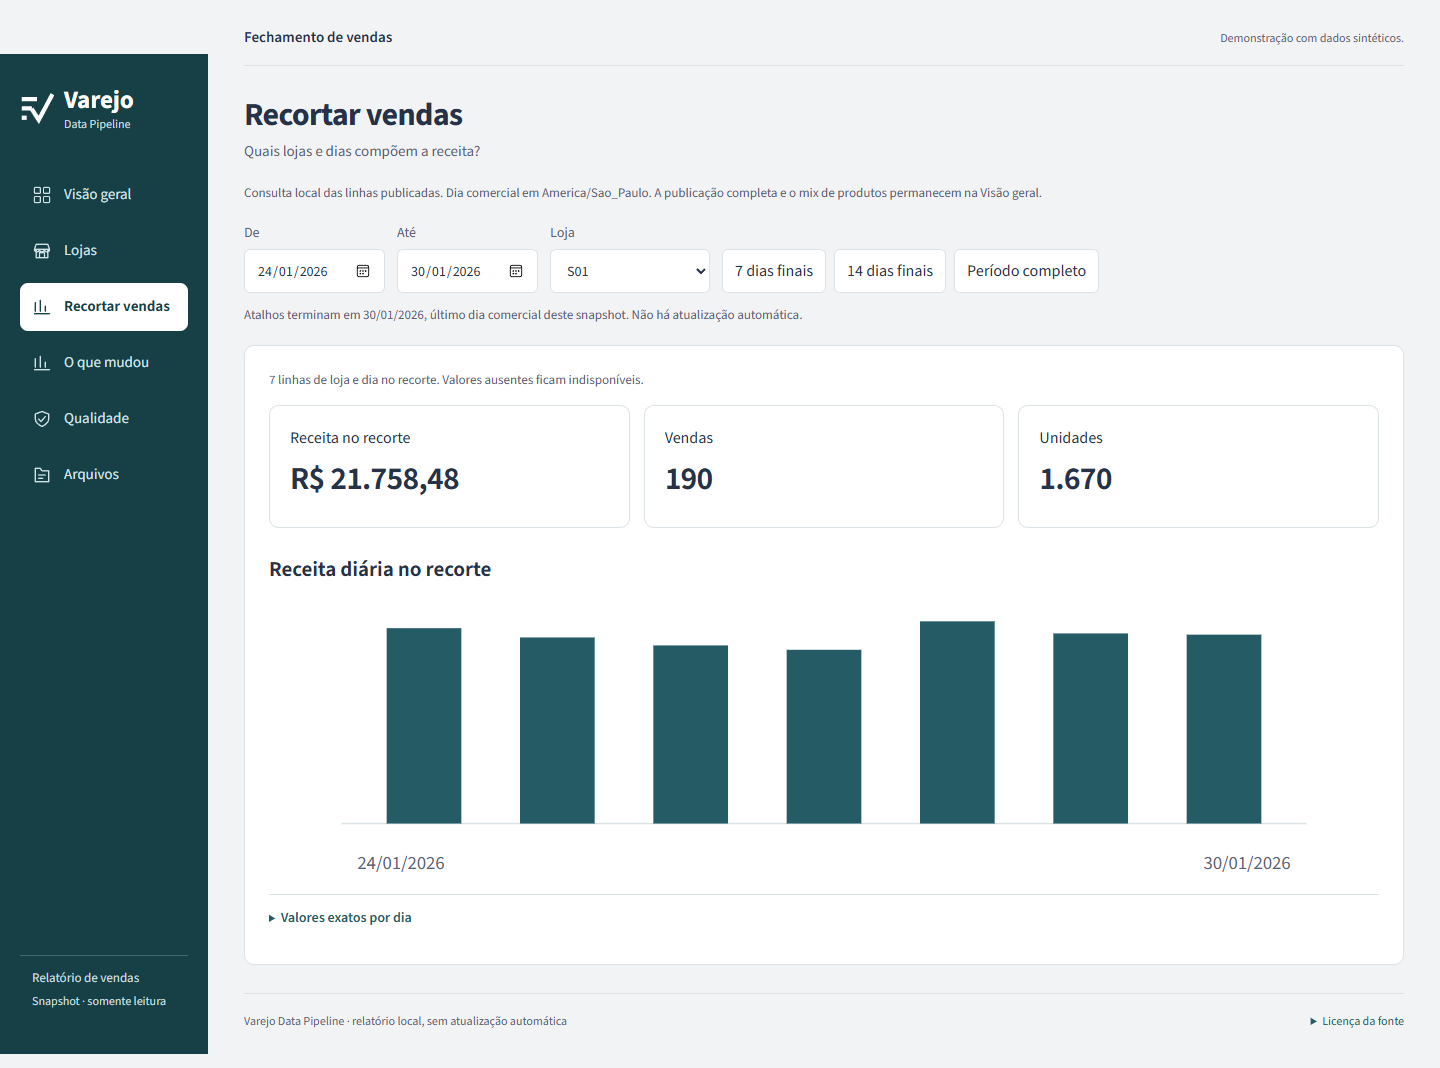
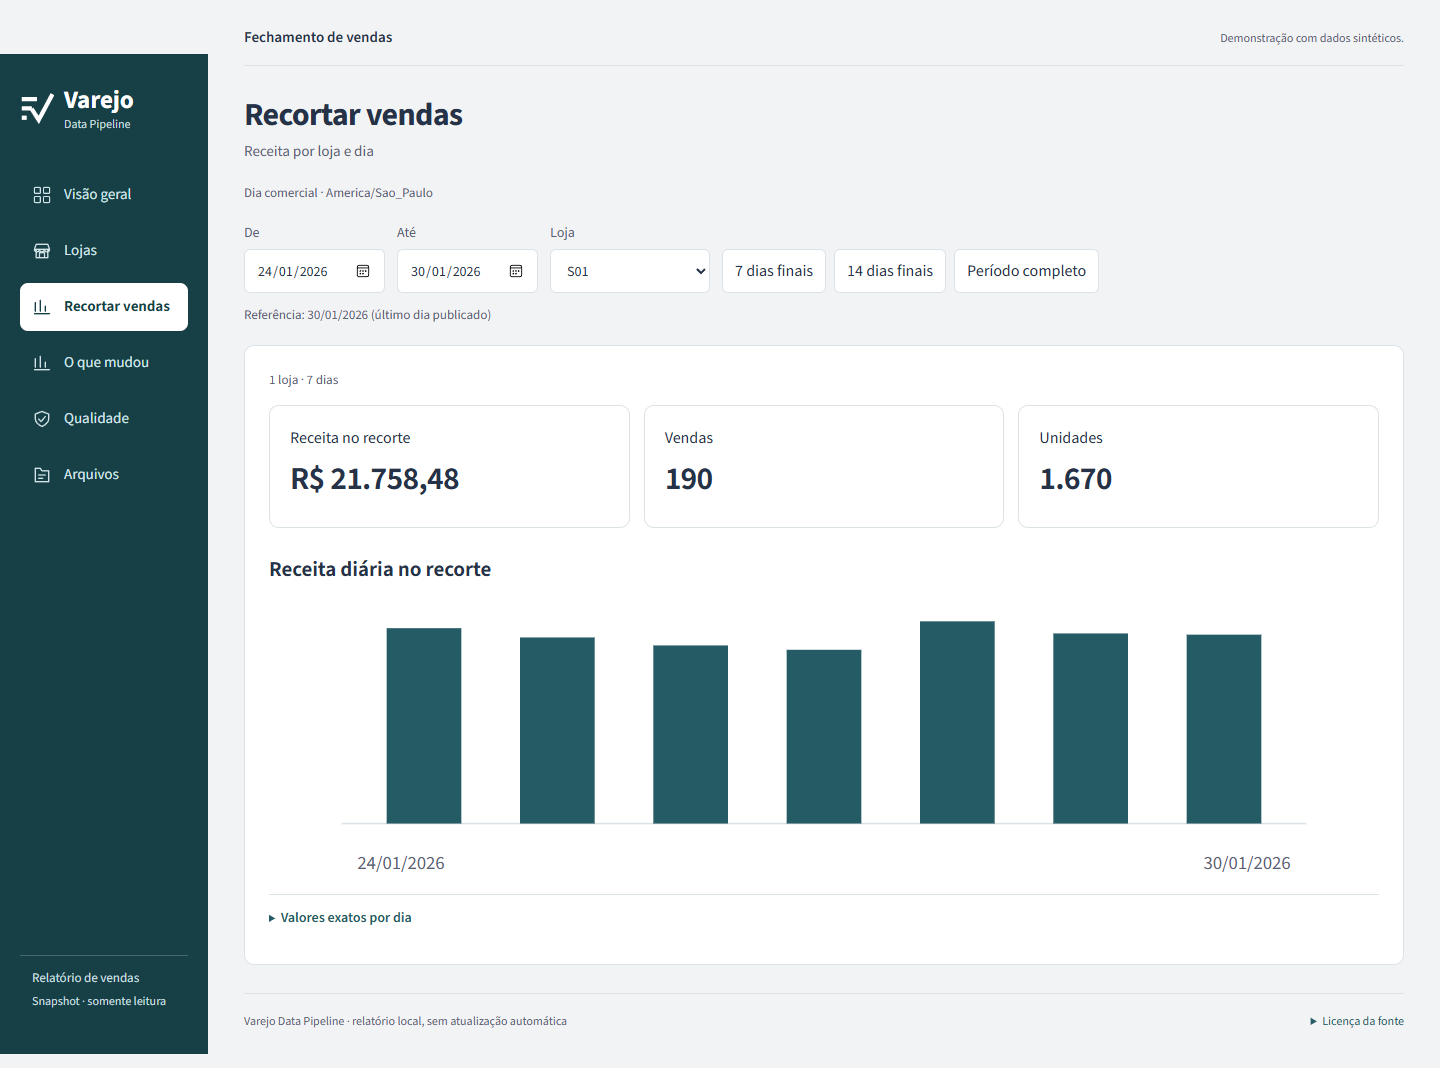
Encurta os textos da consulta de vendas

Changed region(s): [[0.1562, 0.1236, 0.7188, 0.1854], [0.1562, 0.2781, 0.5625, 0.309], [0.1875, 0.3399, 0.4375, 0.3708]]

diff --git a/src/retail_pipeline/report.js b/src/retail_pipeline/report.js
@@ -104,8 +104,8 @@ if (salesData) {
   const reference = recentSalesPeriod(rows, 1).to;
   document.getElementById('sales-slice-controls').hidden = false;
   document.getElementById('sales-slice-reference').textContent = reference
-    ? `Atalhos terminam em ${reference.split('-').reverse().join('/')}, último dia comercial deste snapshot. Não há atualização automática.`
-    : 'Este snapshot não contém linhas de loja e dia para recortar.';
+    ? `Referência: ${reference.split('-').reverse().join('/')} (último dia publicado)`
+    : 'Sem linhas de loja e dia.';
   [...new Set(rows.map(row => row.store_id))].sort().forEach(id => store.add(new Option(id, id)));
   const params = new URLSearchParams(location.search);
   const calendarDay = value => /^\d{4}-\d{2}-\d{2}$/.test(value || '') && !Number.isNaN(Date.parse(value)) && new Date(value).toISOString().slice(0,10) === value;
@@ -125,7 +125,9 @@ if (salesData) {
       if (value) url.searchParams.set(key,value); else url.searchParams.delete(key);
     }
     history.replaceState(null,'',url);
-    note.textContent = slice.rows.length ? `${slice.rows.length} linhas de loja e dia no recorte. Valores ausentes ficam indisponíveis.` : 'Nenhuma observação nesse período e loja. Ausência de linha não é venda zero.';
+    const stores = new Set(slice.rows.map(row => row.store_id)).size;
+    const days = slice.daily.length;
+    note.textContent = slice.rows.length ? `${stores} ${stores === 1 ? 'loja' : 'lojas'} · ${days} ${days === 1 ? 'dia' : 'dias'}` : 'Nenhum dado neste recorte.';
     output.append(note);
     if (!slice.rows.length) return;
     const cards = document.createElement('div'); cards.className = 'metrics';

diff --git a/src/retail_pipeline/report_view.py b/src/retail_pipeline/report_view.py
@@ -1509,15 +1509,14 @@ def _sales_explorer(payload: ReportPayload) -> str:
         '<section class="panel" id="recorte" data-report-view tabindex="-1" '
         'aria-labelledby="slice-title"><header class="view-heading"><div>'
         '<h2 id="slice-title">Recortar vendas</h2><p class="view-subtitle">'
-        "Quais lojas e dias compõem a receita?</p></div></header>"
+        "Receita por loja e dia</p></div></header>"
     )
     if not (payload.snapshot or {}).get("publication_id"):
         return heading + '<p class="empty">Ainda não há publicação para recortar.</p></section>'
     if payload.stores_truncated:
         return heading + (
-            '<p class="empty">As linhas de loja e dia estão truncadas neste relatório. '
-            "Gere um relatório com período menor para filtrar sem apresentar totais parciais "
-            "como um fechamento completo.</p></section>"
+            '<p class="empty">Linhas de loja e dia truncadas. '
+            "Gere um relatório com período menor para recortar os dados.</p></section>"
         )
     fields = ("business_date", "store_id", "net_revenue_brl", "sales_count", "units")
     for row in payload.stores:
@@ -1539,8 +1538,7 @@ def _sales_explorer(payload: ReportPayload) -> str:
     ]
     data = json.dumps(rows, ensure_ascii=False, default=str).replace("<", "\\u003c")
     return heading + (
-        '<p class="meta">Consulta local das linhas publicadas. Dia comercial em '
-        "America/Sao_Paulo. A publicação completa e o mix de produtos permanecem na Visão geral.</p>"
+        '<p class="meta">Dia comercial · America/Sao_Paulo</p>'
         '<div id="sales-slice-controls" class="sales-slice-controls" hidden>'
         '<label>De<input id="sales-from" type="date"></label>'
         '<label>Até<input id="sales-to" type="date"></label>'

diff --git a/README.md b/README.md
@@ -13,7 +13,7 @@ Conferência de entregas e revisões de vendas antes de publicar um fechamento.
 
 ## Visão geral
 
-O projeto responde a três perguntas: o total está completo, quais revisões foram aceitas e a qual publicação cada indicador pertence? Desenvolvi a ingestão, as regras de revisão, a [publicação por manifesto](src/retail_pipeline/publication.py) e o relatório para uma rede fictícia. Os dados são sintéticos; não há adoção comercial nem ganho financeiro medido.
+Desenvolvi este pipeline para conferir entregas e revisões de vendas de uma rede fictícia. As regras conciliam os totais antes da [publicação por manifesto](src/retail_pipeline/publication.py), e o relatório conserva a origem de cada indicador. Os dados são sintéticos.
 
 O fechamento também conserva um perfil da Silver ativa. A comparação identifica a publicação anterior e recalcula datas e lojas em comum antes de avaliar variações. Eventos OpenLineage ficam no disco e podem ser reexportados após uma falha. [Contratos e roteiros de evolução](docs/evolution.md).
 
